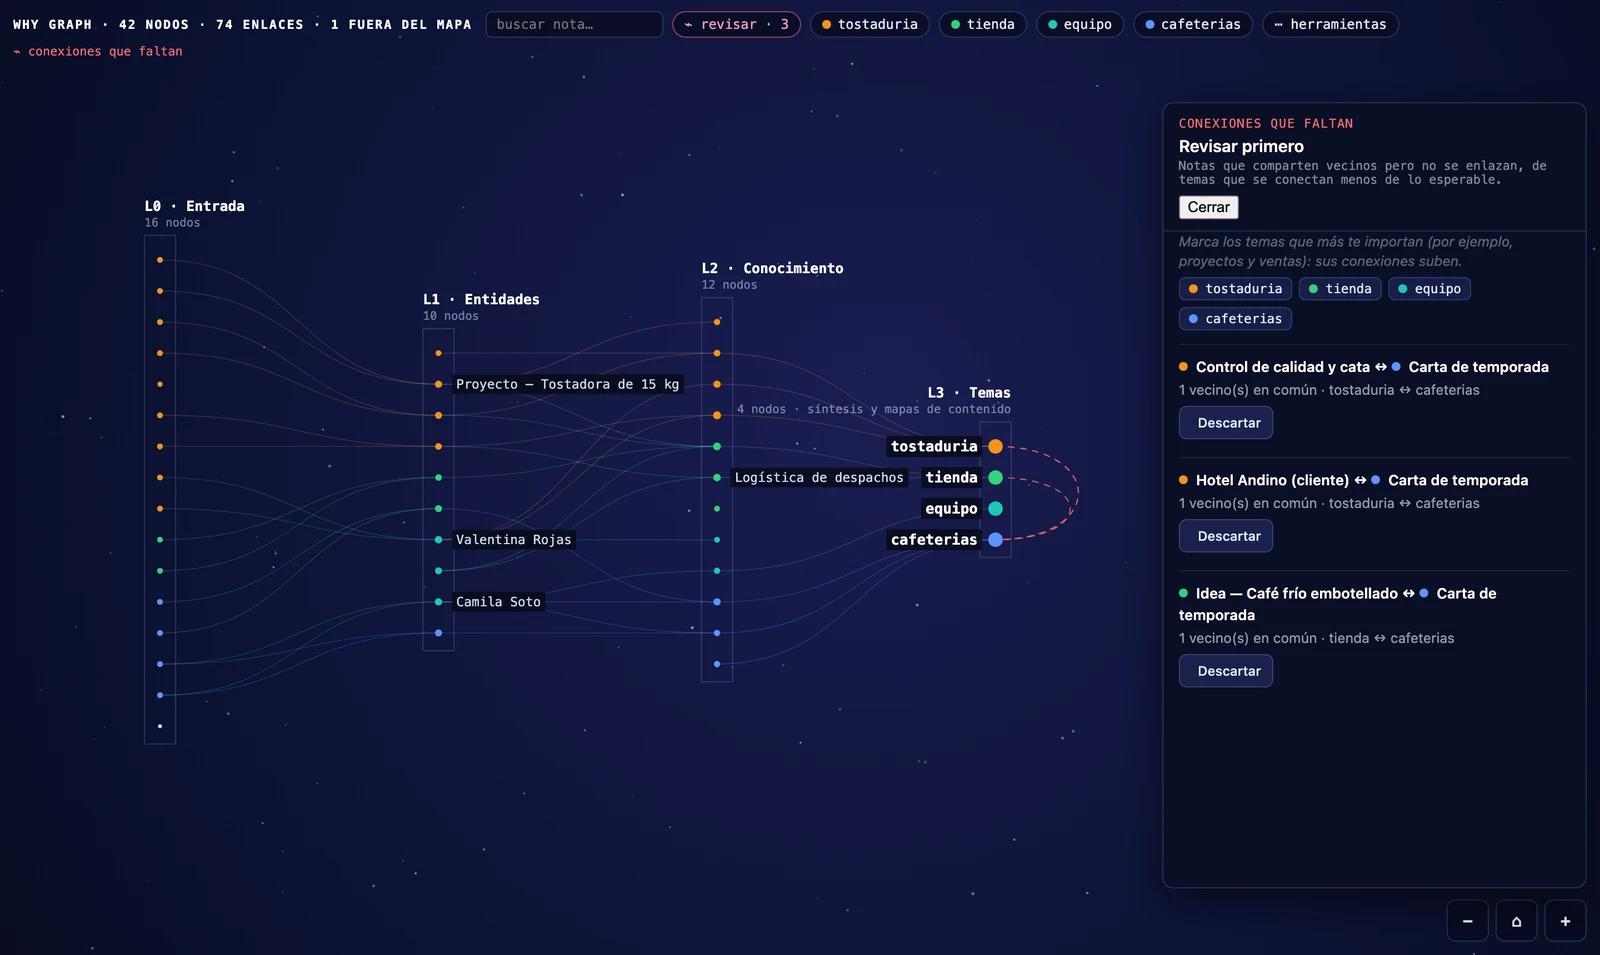
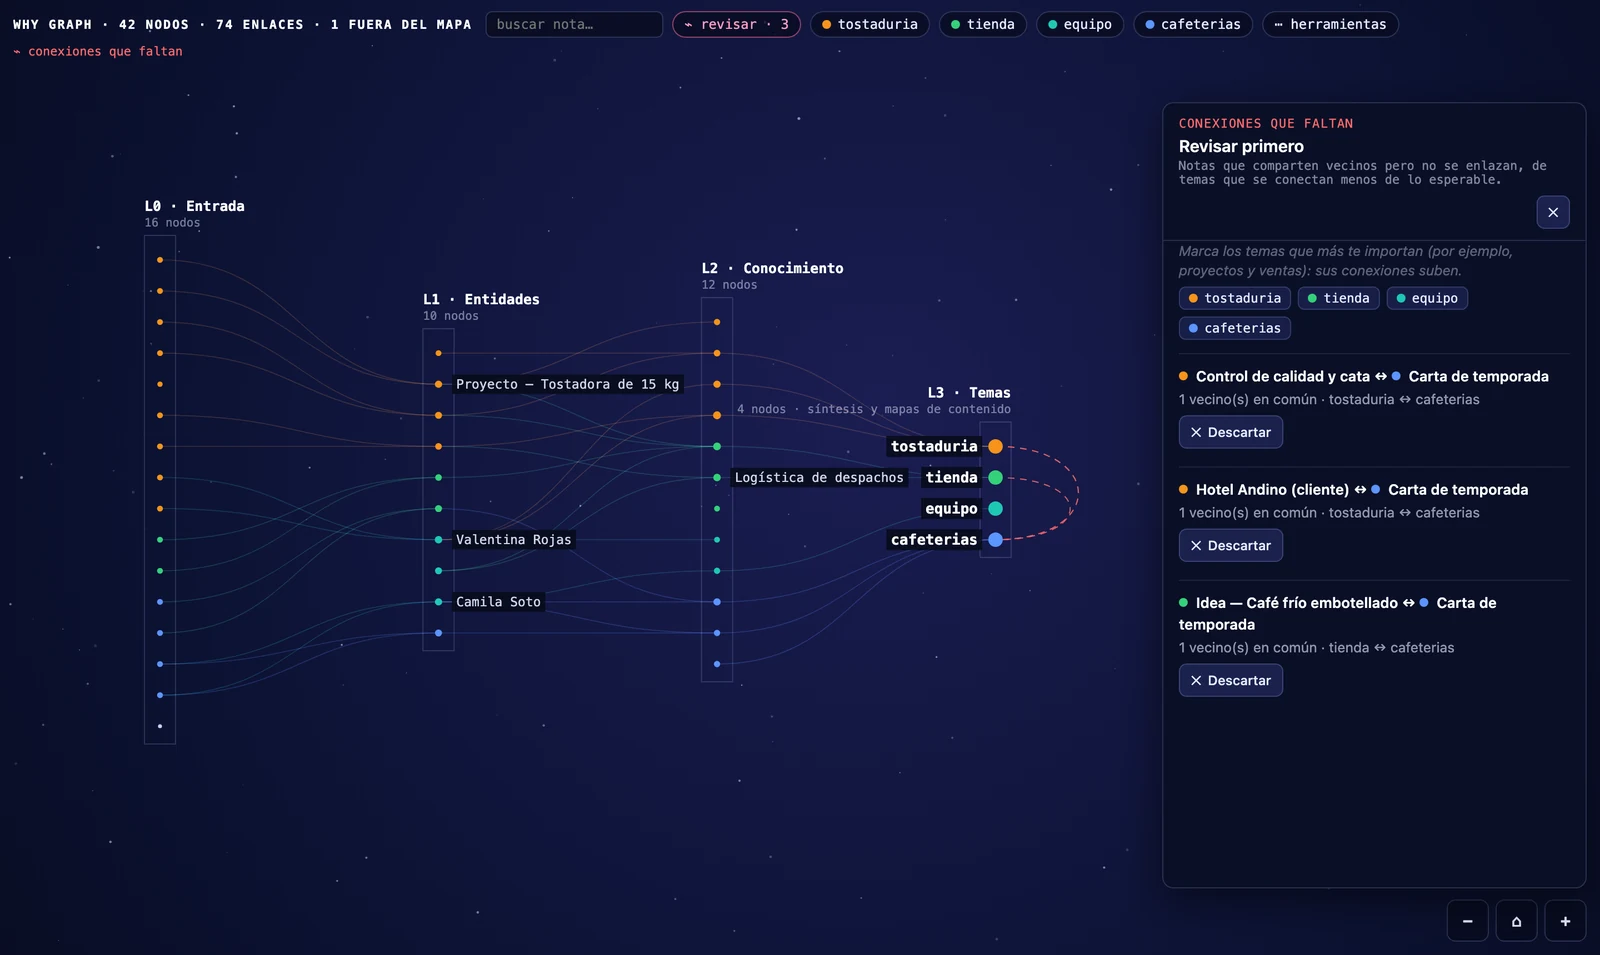
1.32.1 — detalles visuales y README con todos los ajustes
- «Dejar aquí» (recortes sueltos) cabe en su botón: antes el texto se salía.
- «Conexiones que faltan» se cierra con la ✕, como los demás paneles, no con un botón de texto.
- Temas clave: el punto de color y el nombre ya no quedan pegados.
- README (es/en): la tabla de ajustes suma Excluir notas, Seguir la nota activa, Segunda revisión,
  Carpeta del registro de aprobaciones y Carpeta para exportar imágenes; «Carpetas → capa» con el
  nombre del plugin. Capturas y animación regeneradas; el mirador dibuja la ✕.

Código generado con Claude Code.

Changed region(s): [[0.7188, 0.1822, 1.0, 0.7288]]

diff --git a/src/main.js b/src/main.js
@@ -14,6 +14,8 @@
  *   (también en el teléfono); se mueven, nunca se editan. El arranque automático se cancela al desactivar.
  *   Asistente: plantilla «Negocio», «Profesional (normas y servicios)», y elegir una plantilla reparte
  *   las carpetas por su nombre (antes solo renombraba columnas); aplicar sin cambios lo avisa.
+ * v1.32.1 (24.09.2026): «Dejar aquí» cabe en su botón, «Conexiones que faltan» se cierra con la ✕ de
+ *   los demás paneles y los temas clave separan el punto del nombre. README con todos los ajustes.
  * v1.31 (19.09.2026): salud por gravedad (rojo solo lo grave, ámbar el resto); en el teléfono el tope por
  *   capa baja a lo que cabe; ajustes también como definiciones (búsqueda de ajustes de Obsidian 1.13).
  * v1.30 (19.09.2026): la escena se cachea en dos capas fuera de pantalla y cada cuadro de la animación
@@ -2094,7 +2096,10 @@ class VistaMapa extends ItemView {
     const p = this.panel, pl = this.plugin; p.empty(); this.guia.hide(); this.novAbierto = false;
     const acciones = this.cabecera(p, T('Conexiones que faltan'), T('Revisar primero'),
       T('Notas que comparten vecinos pero no se enlazan, de temas que se conectan menos de lo esperable.'));
-    acciones.createEl('button', { text: T('Cerrar') }).onclick = () => { this.vacios = false; this.sugerencia = null; this.abrirPanel(null); this.pintarEstado(); this.pedir(); };
+    // Igual que los demás paneles: una ✕, no un botón de texto.
+    const cerrar = acciones.createEl('button', { cls: 'mn-btn mn-cerrar', attr: { 'aria-label': T('Cerrar'), title: T('Cerrar') } });
+    try { setIcon(cerrar, 'x'); } catch { cerrar.setText('×'); }
+    cerrar.onclick = () => { this.vacios = false; this.sugerencia = null; this.abrirPanel(null); this.pintarEstado(); this.pedir(); };
     const lista = p.createDiv('mn-lista');
     // Temas clave: la persona dice qué le importa (p. ej. proyectos y ventas) y eso sube primero.
     const temas = Object.entries(this.D.temas).filter(([id]) => this.D.nodos.some((n) => n.tema === id));
@@ -2104,7 +2109,7 @@ class VistaMapa extends ItemView {
       const clave = new Set(pl.ajustes.temasClave || []);
       for (const [id, [nombre, color]] of temas) {
         const b = fila.createEl('button', { cls: 'mn-ficha' + (clave.has(id) ? ' clave' : '') });
-        b.createSpan({ cls: 'mn-punto' }).setCssProps({ '--mn-color': color }); b.appendText(` ${clave.has(id) ? '★ ' : ''}${nombre}`);
+        b.createSpan({ cls: 'mn-punto' }).setCssProps({ '--mn-color': color }); b.appendText(`${clave.has(id) ? '★ ' : ''}${nombre}`);
         b.onclick = async () => { clave.has(id) ? clave.delete(id) : clave.add(id); pl.ajustes.temasClave = [...clave]; await pl.guardar(); this.panelVacios(); this.pintarChips(); };
       }
     }

diff --git a/styles.css b/styles.css
@@ -191,3 +191,8 @@
 .mn-asistente-leyenda { padding: var(--size-4-2) 0; border-bottom: 1px solid var(--background-modifier-border); }
 .mn-asistente-leyenda > summary { font-size: var(--font-ui-small); color: var(--text-muted); cursor: pointer; }
 .mn-asistente-leyenda > .setting-item-description { margin-top: var(--size-4-1); }
+
+/* Temas clave: el punto y el nombre separados (el botón es flex y se comía el espacio). */
+.mn-raiz .mn-panel .mn-temas-clave button.mn-ficha { display: inline-flex; align-items: center; gap: 6px; }
+/* «Dejar aquí» es texto, no un ícono: el botón toma el ancho de su texto. */
+.mn-raiz .mn-panel .mn-nov-recortes .mn-nov-botones button.mn-btn { width: auto; padding: 0 10px; }

diff --git a/pruebas/mirador/mirador.html b/pruebas/mirador/mirador.html
@@ -79,7 +79,9 @@ const obsidian = {
   Notice: class { constructor(m) { console.log('[aviso]', m); } },
   Platform: { isMobile: false, isPhone: false },
   debounce: (f) => f,
-  setIcon: (el) => { el.textContent = ''; },
+  // Sin la librería de íconos de Obsidian: solo la ✕ de cerrar se dibuja como texto, para que
+  // las capturas del README no muestren un botón vacío.
+  setIcon: (el, nombre) => { el.textContent = nombre === 'x' ? '✕' : ''; },
   requestUrl: async () => ({ status: 500, json: {} }),
   normalizePath: (p) => String(p).replace(/\/+/g, '/').replace(/^\/|\/$/g, ''),
   getLanguage: () => (new URLSearchParams(location.search).get('idioma') || 'es'),

diff --git a/README.es.md b/README.es.md
@@ -268,7 +268,9 @@ navegador.
 | Ajuste | Qué cambia |
 |---|---|
 | **Capas** | Una línea por capa: `Nombre \| descripción`. Entre tres y cinco funciona mejor. |
-| **Carpetas** | Qué carpeta va a qué capa. El asistente lo escribe por ti. |
+| **Carpetas → capa** | Qué carpeta va a qué capa. El asistente lo escribe por ti; gana la carpeta más específica. |
+| **Excluir notas** | Nombres de nota, separados por coma, que quedan fuera del mapa. Útil para notas que enlazan a todo. |
+| **Seguir la nota activa** | Al abrir una nota, el mapa la enfoca. Encendido por defecto. |
 | **Propiedad de tema** | La propiedad del frontmatter que agrupa y colorea las notas (por defecto `tema`). Vacío = sin temas. |
 | **Notas visibles por capa** | En vaults grandes cada capa muestra sus notas más conectadas; el resto aparece al buscarlas o abrirlas. Por defecto 150. |
 | **Carpetas de fuentes** | Una por línea. Si tus notas citan archivos por su ruta (`raw/articles/algo.md`, un PDF, una carpeta de un día), esos archivos aparecen como fuentes. `carpeta/*` agrupa cada subcarpeta en un nodo. Vacío por defecto: sin carpetas, el mapa es el de siempre. |
@@ -280,6 +282,9 @@ navegador.
 | **Solo enlaces de largo alcance** (herramientas) | Muestra solo los enlaces que saltan dos capas o más: dónde dos mitades del vault se tocan de punta a punta. |
 | **Propiedad de enlaces externos** | Propiedades del frontmatter con enlaces web (`Título \| https://…`, `https://…`, `usuario/repo`). Vacío = la sección no aparece nunca. Solo se abren `http`/`https`. |
 | **Propiedad de fecha de modificación** | Si la escribes, aprobar un motivo o un resumen también pone la fecha de hoy en esa propiedad. Vacía por defecto: el plugin no toca tu frontmatter. |
+| **Segunda revisión** | Una segunda llamada a la IA revisa que el motivo propuesto sea fiel (negaciones, estados, pendientes). Cuesta el doble; encendida por defecto. |
+| **Carpeta del registro de aprobaciones** | Dónde deja constancia cada motivo aprobado: `<carpeta>/<fecha>/mapa-neuronal-motivos.md`. |
+| **Carpeta para exportar imágenes** | Dónde guarda el mapa *Exportar imagen (PNG)*. |
 | **Animación** | Pulsos de luz que viajan por los enlaces. Solo mientras el mapa está visible, y apagada si tu sistema pide reducir el movimiento. |
 | **Carpeta del material sin procesar · Carpeta del wiki** (Novedades) | De dónde se lee lo nuevo y adónde van sus novedades. Vacías por defecto: sin chip, sin panel, sin comando. |
 | **Preparar novedades al abrir Obsidian** | Apagado por defecto. Encendido, tu IA prepara las novedades en segundo plano, hasta el **tope de llamadas automáticas al día** (30). Dos dispositivos con el mismo vault no preparan dos veces lo mismo. |

diff --git a/README.md b/README.md
@@ -267,7 +267,9 @@ in a browser.
 | Setting | What it changes |
 |---|---|
 | **Layers** | One line per layer: `Name \| description`. Three to five works best. |
-| **Folders** | Which folder goes to which layer. The wizard writes this for you. |
+| **Folders → layer** | Which folder goes to which layer. The wizard writes this for you; the more specific folder wins. |
+| **Exclude notes** | Note names, comma-separated, left off the map. Useful for notes that link to everything. |
+| **Follow the active note** | When you open a note, the map focuses it. On by default. |
 | **Topic property** | The frontmatter property that groups and colours notes (default `tema`). Empty = no topics. |
 | **Notes visible per layer** | In large vaults each layer shows its most connected notes; the rest appear when you search or open them. Default 150. |
 | **Source folders** | One per line. If your notes cite files by path (`raw/articles/x.md`, a PDF, a day's folder), those files appear as sources. `folder/*` groups each subfolder into one node. Empty by default: with no folders, the map is the one you know. |
@@ -279,6 +281,9 @@ in a browser.
 | **Only long-range links** (tools) | Shows only the links that jump two layers or more: where two halves of the vault touch end to end. |
 | **External links property** | Frontmatter properties holding web links (`Title \| https://…`, `https://…`, `user/repo`). Empty = the section never appears. Only `http`/`https` are opened. |
 | **Last-modified property** | If set, approving a reason or a summary also writes today's date in that property. Empty by default: the plugin never touches your frontmatter. |
+| **Second pass** | A second AI call checks that a suggested reason is faithful (negations, states, pending items). Costs twice as much; on by default. |
+| **Approval log folder** | Where each approved reason leaves its record: `<folder>/<date>/mapa-neuronal-motivos.md`. |
+| **Folder for exported images** | Where *Export image (PNG)* saves the map. |
 | **Animation** | Light pulses travelling along the links. Only while the map is visible, and off if your system asks for reduced motion. |
 | **Raw material folder · Wiki folder** (What's new) | Where new material is read from and where its items go. Both empty by default: no chip, no panel, no command. |
 | **Prepare new items when Obsidian opens** | Off by default. On, your AI prepares the items in the background, up to the **daily limit of automatic calls** (30). Two devices on the same vault do not prepare the same material twice. |
